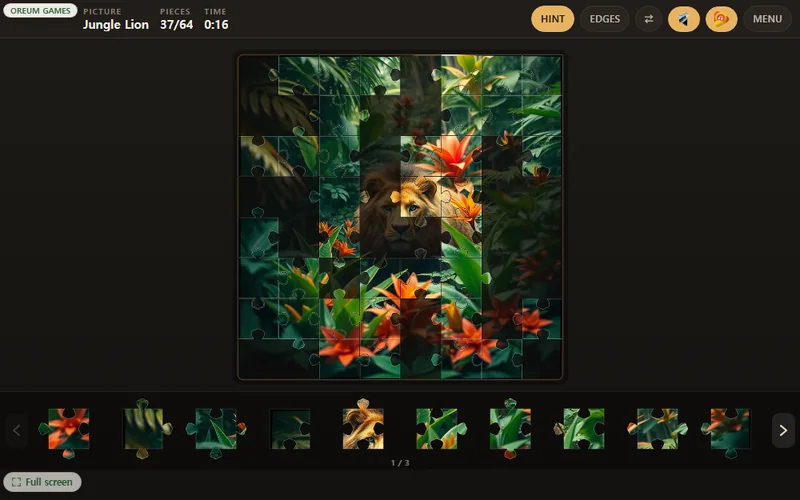
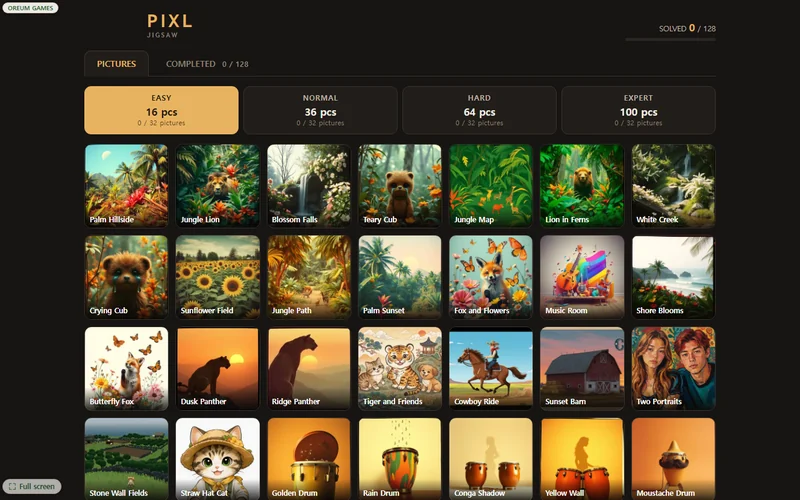
PIXL: 뒤로가기·표시줄 잘림·기본탭·카드 그림
1) 브라우저 뒤로가기가 사이트 밖으로 나갔다
   판을 열 때 history 기록을 하나 밀어 넣고, popstate 에서 고르는 화면으로
   되돌린다. MENU 로 나갈 때는 그 기록을 도로 뺀다(쌓이지 않게).

2) 위쪽 표시줄 단추가 오른쪽으로 잘렸다
   overflow:hidden 을 걷고 flex-wrap 을 줬다. 자리가 모자라면 잘라내지 않고
   아랫줄로 넘어간다. 360~1280px 열 가지 폭에서 마지막 단추까지 다 들어오는 것 확인.
   표시줄이 눌리지 않게 flex:0 0 auto, 덮이지 않게 z-index 도 줬다.

3) 폰 주소창이 여닫힐 때 아래가 화면 밖으로 밀리던 것
   height:100% 뒤에 100dvh 를 덧붙였다. 더불어 캔버스 크기를 창 크기가 아니라
   ResizeObserver 로 따라가게 해서 전체화면·화면분할에서도 어긋나지 않는다.

4) 고르는 화면 기본 탭을 '완성작' 으로
   MENU 로 나오면 완성작이 먼저 보인다. 칸을 눌러 바로 재도전할 수 있다.

5) 게임 카드 그림을 판 화면 대신 '그림 고르는 화면' 으로 바꿨다
   그림이 서른두 장이라는 게 한눈에 보인다. 이미 배포된 뒤라 ?v=1 -> ?v=2.
   alt 도 새 그림에 맞춰 다시 썼다.

diff --git a/games/mini/pixl/play/index.html b/games/mini/pixl/play/index.html
@@ -17,7 +17,7 @@
   --accent:#e8b361; --accent2:#f2d097; --good:#7fc47f;
 }
 *{box-sizing:border-box}
-html,body{margin:0;height:100%;overflow:hidden;background:var(--bg);color:var(--ink);
+html,body{margin:0;height:100%;height:100dvh;overflow:hidden;background:var(--bg);color:var(--ink);
   font:400 15px/1.5 -apple-system,BlinkMacSystemFont,"Pretendard","Apple SD Gothic Neo","Malgun Gothic",sans-serif;
   -webkit-tap-highlight-color:transparent;-webkit-text-size-adjust:100%}
 button{font:inherit;color:inherit;background:none;border:0;cursor:pointer;touch-action:manipulation}
@@ -135,10 +135,13 @@ button{font:inherit;color:inherit;background:none;border:0;cursor:pointer;touch-
 
 /* ── 게임 화면 ── */
 #game{position:absolute;inset:0;display:flex;flex-direction:column}
-#hud{display:flex;align-items:center;gap:8px;padding:7px 10px 7px 104px;
-  background:var(--bg2);border-bottom:1px solid var(--line);overflow:hidden}
-.hstats{display:flex;align-items:center;min-width:0}
-.hbtns{display:flex;align-items:center;gap:7px;margin-left:auto}
+#hud{flex:0 0 auto;position:relative;z-index:5;
+  display:flex;align-items:center;gap:8px;padding:7px 10px 7px 104px;
+  background:var(--bg2);border-bottom:1px solid var(--line);
+  flex-wrap:wrap;row-gap:6px}
+.hstats{display:flex;align-items:center;min-width:0;flex:1 1 auto;overflow:hidden}
+.hbtns{display:flex;align-items:center;gap:7px;margin-left:auto;flex:0 0 auto;flex-wrap:wrap;
+  justify-content:flex-end;row-gap:6px}
 .stat{display:flex;flex-direction:column;line-height:1.15;padding:0 14px 0 0;min-width:0}
 .stat b{font-weight:800;font-size:9.5px;line-height:1.4;letter-spacing:.14em;color:var(--muted)}
 .stat span{font-weight:800;font-size:15px;line-height:1.2;color:var(--ink);font-variant-numeric:tabular-nums;
@@ -629,7 +632,7 @@ function paintSel(){
 }
 
 /* ── 맨 위 탭 ── */
-var view='pic';
+var view='ach';
 function paintTabs(done,total){
   $('#tabPic').innerHTML=T.tabPic;
   $('#tabAch').innerHTML=T.tabAch+' <em>'+done+' / '+total+'</em>';
@@ -720,7 +723,7 @@ $('#achNext').onclick=function(){
 function start(picId,levIdx){
   var pic=null; for(var i=0;i<PICS.length;i++) if(PICS[i].id===picId) pic=PICS[i];
   if(!pic) return;
-  selEl.hidden=true; gameEl.hidden=false; $('#done').hidden=true;
+  selEl.hidden=true; gameEl.hidden=false; $('#done').hidden=true; pushGameState();
   $('#load').hidden=false; $('#load').textContent=T.loading;
   $('#lbName').textContent=T.picture;
   $('#vName').textContent=KO?pic.ko:pic.en;
@@ -806,6 +809,18 @@ function resize(){
 }
 window.addEventListener('resize',resize);
 window.addEventListener('orientationchange',function(){ setTimeout(resize,220); });
+/* 창 크기 바뀜만 보면 전체화면·화면분할·주소창 여닫힘을 놓칠 때가 있다.
+   캔버스 칸 자체가 바뀌는 것을 보면 빠짐이 없다. */
+if(window.ResizeObserver){
+  var ro=new ResizeObserver(function(){
+    var r=cv.getBoundingClientRect();
+    if(Math.round(r.width)!==CW || Math.round(r.height)!==CH) resize();
+  });
+  ro.observe(cv);
+}
+['fullscreenchange','webkitfullscreenchange'].forEach(function(ev){
+  document.addEventListener(ev,function(){ setTimeout(resize,60); setTimeout(resize,300); });
+});
 
 /* ── 그리기 ── */
 function draw(){
@@ -1076,7 +1091,22 @@ $('#dNext').onclick=function(){
   var i=0; for(var k=0;k<PICS.length;k++) if(PICS[k].id===G.pic.id) i=k;
   start(PICS[(i+1)%PICS.length].id,G.lev);
 };
-function toMenu(){ G=null; gameEl.hidden=true; selEl.hidden=false; $('#done').hidden=true; paintSel(); }
+function toMenu(back){
+  G=null; gameEl.hidden=true; selEl.hidden=false; $('#done').hidden=true; paintSel();
+  /* 판을 열 때 밀어 넣은 기록을 도로 뺀다 (뒤로가기로 돌아온 경우는 이미 빠져 있다) */
+  if(!back && inGameState){ inGameState=false; try{ history.back(); }catch(e){} }
+}
+/* 판을 열면 기록을 하나 밀어 넣어, 뒤로가기가 사이트 밖이 아니라 고르는 화면으로 가게 한다 */
+var inGameState=false;
+function pushGameState(){
+  if(inGameState) return;
+  try{ history.pushState({pixl:'game'},''); inGameState=true; }catch(e){}
+}
+window.addEventListener('popstate',function(){
+  inGameState=false;
+  if(!gameEl.hidden){ toMenu(true); return; }        /* 판 → 고르는 화면 */
+  if(!$('#slotDlg').hidden){ closeSlot(); }
+});
 
 /* ── 완성 ── */
 function finish(){

diff --git a/games/mini/pixl/index.html b/games/mini/pixl/index.html
@@ -89,7 +89,7 @@
   <section class="showcase">
     <div class="wrap game-page">
       <a class="backlink" href="/games/mini/">← 미니게임 목록</a>
-      <div class="gp-shot"><img src="/assets/pixl-shot.webp?v=1" alt="어두운 판 위에 정글 사자 그림이 절반쯤 맞춰져 있고, 아래 칸에는 아직 안 쓴 조각들이 늘어서 있다" width="800" height="500"></div>
+      <div class="gp-shot"><img src="/assets/pixl-shot.webp?v=2" alt="PIXL 그림 고르는 화면 — 정글·꽃밭·동물 그림 서른두 장이 격자로 늘어서 있고, 위쪽에 난이도 네 칸이 있다" width="800" height="500"></div>
       <h1>PIXL</h1>
       <p class="gp-line">그림 32장을 16 · 36 · 64 · 100조각으로 나눈 직소퍼즐 128판.
               아래 칸에서 조각을 꺼내 판에 끌어다 놓으면, 제자리 가까이에서 딱 붙습니다.

diff --git a/en/games/mini/pixl/index.html b/en/games/mini/pixl/index.html
@@ -85,7 +85,7 @@
   <section class="showcase">
     <div class="wrap game-page">
       <a class="backlink" href="/en/games/mini/">← All mini games</a>
-      <div class="gp-shot"><img src="/assets/pixl-shot-en.webp?v=1" alt="A jungle lion picture half assembled on a dark board, with unused jigsaw pieces lined up in the tray below" width="800" height="500"></div>
+      <div class="gp-shot"><img src="/assets/pixl-shot-en.webp?v=2" alt="The PIXL picture menu — thirty-two jungle, flower and animal pictures in a grid, with four difficulty tabs above" width="800" height="500"></div>
       <h1>PIXL</h1>
       <p class="gp-line">32 pictures cut into 16, 36, 64 and 100 pieces — 128 puzzles in all.
               Pull a piece out of the tray, drag it onto the board, and it snaps home once it is close enough.

diff --git a/games/mini/index.html b/games/mini/index.html
@@ -378,7 +378,7 @@
         </li>
         <li class="card" id="pixl">
           <a class="card-shot" href="pixl/">
-            <img src="/assets/pixl-shot.webp?v=1" alt="어두운 판 위에 정글 사자 그림이 절반쯤 맞춰져 있고, 아래 칸에는 아직 안 쓴 조각들이 늘어서 있다" loading="lazy" width="800" height="500">
+            <img src="/assets/pixl-shot.webp?v=2" alt="PIXL 그림 고르는 화면 — 정글·꽃밭·동물 그림 서른두 장이 격자로 늘어서 있고, 위쪽에 난이도 네 칸이 있다" loading="lazy" width="800" height="500">
           </a>
           <div class="card-body">
             <h3><a href="pixl/">PIXL</a></h3>

diff --git a/en/games/mini/index.html b/en/games/mini/index.html
@@ -102,7 +102,7 @@
         </li>
         <li class="card" id="pixl">
           <a class="card-shot" href="/en/games/mini/pixl/">
-            <img src="/assets/pixl-shot-en.webp?v=1" alt="A jungle lion picture half assembled on a dark board, with unused jigsaw pieces lined up in the tray below" loading="lazy" width="800" height="500">
+            <img src="/assets/pixl-shot-en.webp?v=2" alt="The PIXL picture menu — thirty-two jungle, flower and animal pictures in a grid, with four difficulty tabs above" loading="lazy" width="800" height="500">
           </a>
           <div class="card-body">
             <h3><a href="/en/games/mini/pixl/">PIXL</a></h3>

diff --git a/en/index.html b/en/index.html
@@ -338,7 +338,7 @@
           <span class="mbody"><b>PAIRBOOM!!</b><i>Match-and-clear puzzle · 100 stages</i></span>
         </a>
         <a class="mini" href="/en/games/mini/pixl/">
-          <span class="shot"><img src="/assets/pixl-shot-en.webp?v=1" alt="" width="800" height="500" loading="lazy"><span class="kind">MINI</span></span>
+          <span class="shot"><img src="/assets/pixl-shot-en.webp?v=2" alt="" width="800" height="500" loading="lazy"><span class="kind">MINI</span></span>
           <span class="mbody"><b>PIXL</b><i>Jigsaw puzzle · 128 boards</i></span>
         </a>
         <a class="mini" href="/en/games/mini/oreumnyang/">

diff --git a/en/games/index.html b/en/games/index.html
@@ -75,7 +75,7 @@
           <span class="mbody"><b>PAIRBOOM!!</b><i>Match-and-clear puzzle · 100 stages</i></span>
         </a>
         <a class="mini" href="/en/games/mini/pixl/">
-          <span class="shot"><img src="/assets/pixl-shot-en.webp?v=1" alt="" width="800" height="500" loading="lazy"><span class="kind">MINI</span></span>
+          <span class="shot"><img src="/assets/pixl-shot-en.webp?v=2" alt="" width="800" height="500" loading="lazy"><span class="kind">MINI</span></span>
           <span class="mbody"><b>PIXL</b><i>Jigsaw puzzle · 128 boards</i></span>
         </a>
         <a class="mini" href="/en/games/mini/oreumnyang/">

diff --git a/index.html b/index.html
@@ -371,7 +371,7 @@
           <span class="mbody"><b>PAIRBOOM!!</b><i>짝 잇기 퍼즐 · 100단계</i></span>
         </a>
         <a class="mini" href="/games/mini/pixl/">
-          <span class="shot"><img src="/assets/pixl-shot.webp?v=1" alt="" width="800" height="500" loading="lazy"><span class="kind">MINI</span></span>
+          <span class="shot"><img src="/assets/pixl-shot.webp?v=2" alt="" width="800" height="500" loading="lazy"><span class="kind">MINI</span></span>
           <span class="mbody"><b>PIXL</b><i>직소퍼즐 · 128판</i></span>
         </a>
         <a class="mini" href="/games/mini/oreumnyang/">

diff --git a/games/index.html b/games/index.html
@@ -78,7 +78,7 @@
           <span class="mbody"><b>PAIRBOOM!!</b><i>짝 잇기 퍼즐 · 100단계</i></span>
         </a>
         <a class="mini" href="/games/mini/pixl/">
-          <span class="shot"><img src="/assets/pixl-shot.webp?v=1" alt="" width="800" height="500" loading="lazy"><span class="kind">MINI</span></span>
+          <span class="shot"><img src="/assets/pixl-shot.webp?v=2" alt="" width="800" height="500" loading="lazy"><span class="kind">MINI</span></span>
           <span class="mbody"><b>PIXL</b><i>직소퍼즐 · 128판</i></span>
         </a>
         <a class="mini" href="/games/mini/oreumnyang/">
